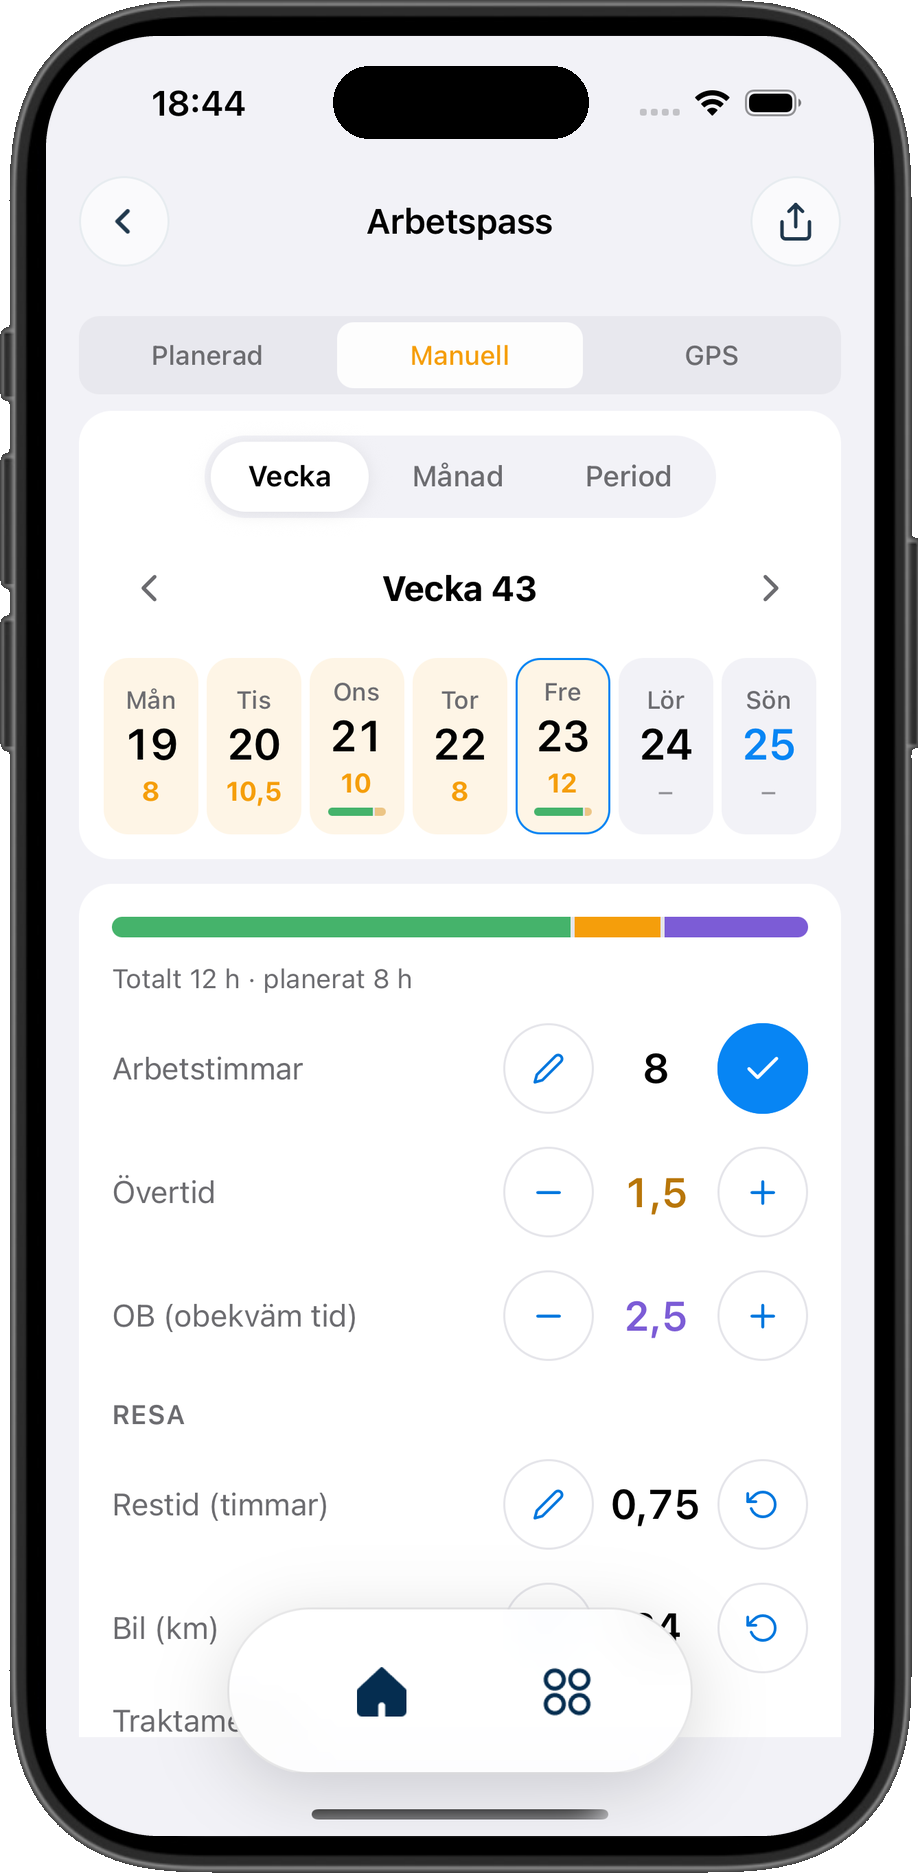
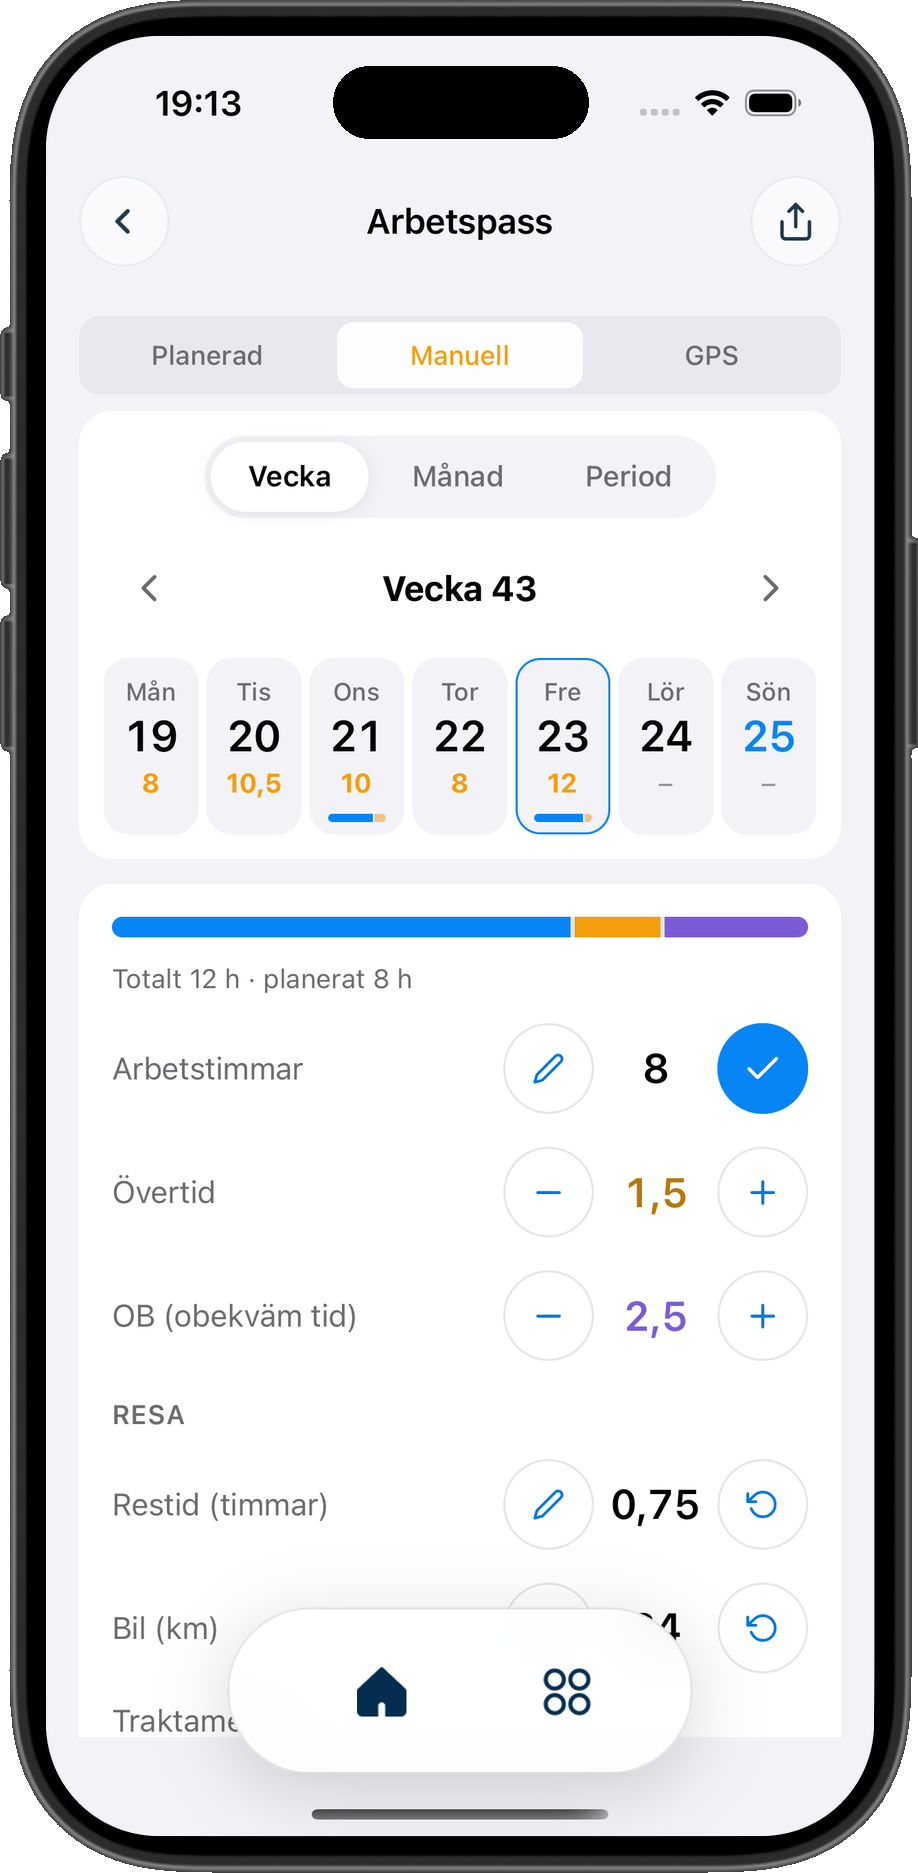
docs(deck): Lucas deck app shots — newest Manuell design (blue hours, no cream days)
Claude-Session: https://claude.ai/code/session_01BHy9U5JeQwZEhSA71ePFpu

diff --git a/docs/presentations/lucas-svea-flode/slides/steg2.html b/docs/presentations/lucas-svea-flode/slides/steg2.html
@@ -3,6 +3,6 @@
 <div style="display:flex;gap:16px;align-items:center"><p style="width:44px;height:44px;flex:none;border-radius:50%;background:rgba(69,179,107,.14);color:#45B36B;font-size:24px;font-weight:600;line-height:44px;text-align:center">2</p><p style="font-size:26px;color:#0A1828"><b>Appen</b>&nbsp;<span style="color:#2394FF">›</span>&nbsp;<span style="color:#5B7591">Arbetspass</span>&nbsp;<span style="color:#2394FF">›</span>&nbsp;<b>Manuell</b></p></div>
 <h2 style="font-family:-apple-system, BlinkMacSystemFont, 'SF Pro Display', 'Segoe UI', Inter, sans-serif;font-size:40px;font-weight:500;letter-spacing:-0.02em;line-height:1.1">Arbetaren fyller i dagen</h2>
 </div>
-<div style="display:flex;gap:96px;justify-content:center"><img src="/_blob/78a979926039ed8e28e1ae2251cc9a51" alt="Appen: Arbetstimmar markerat, övertid, OB och restid" style="width:343px;height:700px;object-fit:contain"><img src="/_blob/fadb4899a978bad1e61a0dbf82aadad3" alt="Appen: restid, bil, traktamente, frånvaro, foton, kvitton, kommentar" style="width:343px;height:700px;object-fit:contain"></div>
+<div style="display:flex;gap:96px;justify-content:center"><img src="/_blob/07405bdb80c17f519082403a1a0f8bdf" alt="Appen: Arbetstimmar markerat, övertid, OB och restid" style="width:343px;height:700px;object-fit:contain"><img src="/_blob/715c1e97e724c2f2395cfa7e2efc8b15" alt="Appen: restid, bil, traktamente, frånvaro, foton, kvitton, kommentar" style="width:343px;height:700px;object-fit:contain"></div>
 <aside>Рабочий заполняет день: часы, övertid, OB, restid, bil, traktamente, frånvaro, фото, чеки, комментарий.</aside>
 </section>

diff --git a/docs/presentations/lucas-svea-flode/slides/cover.html b/docs/presentations/lucas-svea-flode/slides/cover.html
@@ -1,6 +1,6 @@
 <section id="cover" data-transition="fade" style="background:#0A1828;color:#F1F6FB;font-family:-apple-system, BlinkMacSystemFont, 'SF Pro Display', 'Segoe UI', Inter, sans-serif;padding:128px 128px 160px;display:flex;flex-direction:column;justify-content:center;gap:40px">
 <div style="position:absolute;left:0;top:0;width:24px;height:1080px;background:#2394FF"></div>
-<img src="/_blob/1184c0a19f37647c12b5c367679a8a5d" alt="ByggExp-appen: arbetarens dag med arbetstimmar, övertid, OB och resa" style="position:absolute;left:1260px;top:90px;width:470px;height:900px;object-fit:contain">
+<img src="/_blob/d73e14c7e886ed6c221fcf5b7700656d" alt="ByggExp-appen: arbetarens dag med arbetstimmar, övertid, OB och resa" style="position:absolute;left:1260px;top:90px;width:470px;height:900px;object-fit:contain">
 <p style="font-size:28px;font-weight:600;letter-spacing:4px;text-transform:uppercase;color:#2394FF">ByggExp · Svea Ställningsallians AB</p>
 <h1 style="font-family:-apple-system, BlinkMacSystemFont, 'SF Pro Display', 'Segoe UI', Inter, sans-serif;font-size:104px;font-weight:600;letter-spacing:-0.02em;line-height:1.05;color:#F1F6FB;width:1040px">Från dagrapport till Fortnox Lön</h1>
 <p style="position:absolute;left:128px;bottom:64px;width:1000px;font-size:24px;color:#94A8BC">För Lucas Sahindal · Oktober 2026</p>
